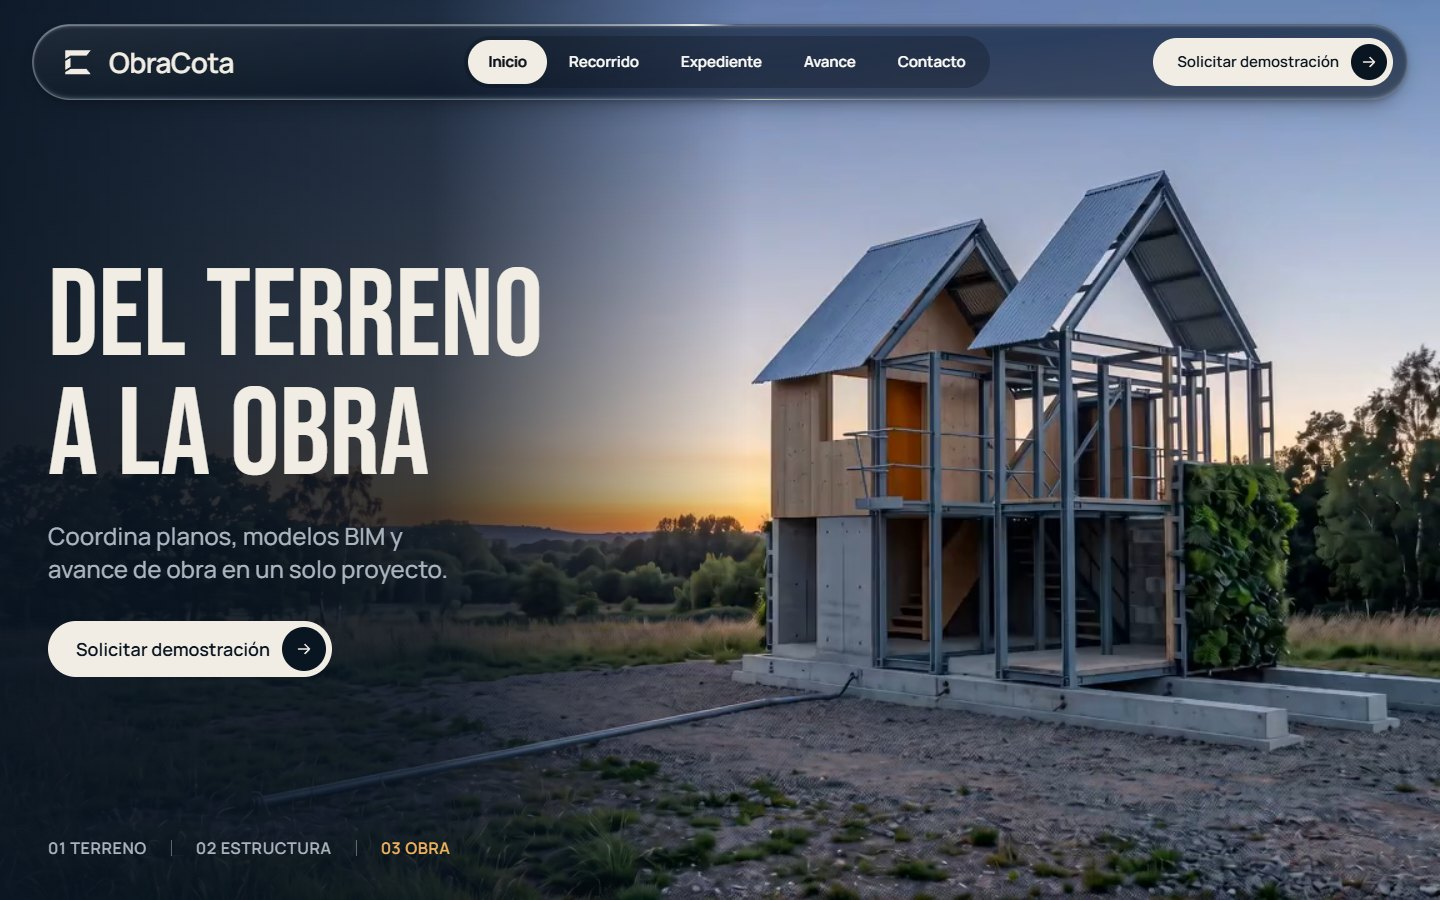
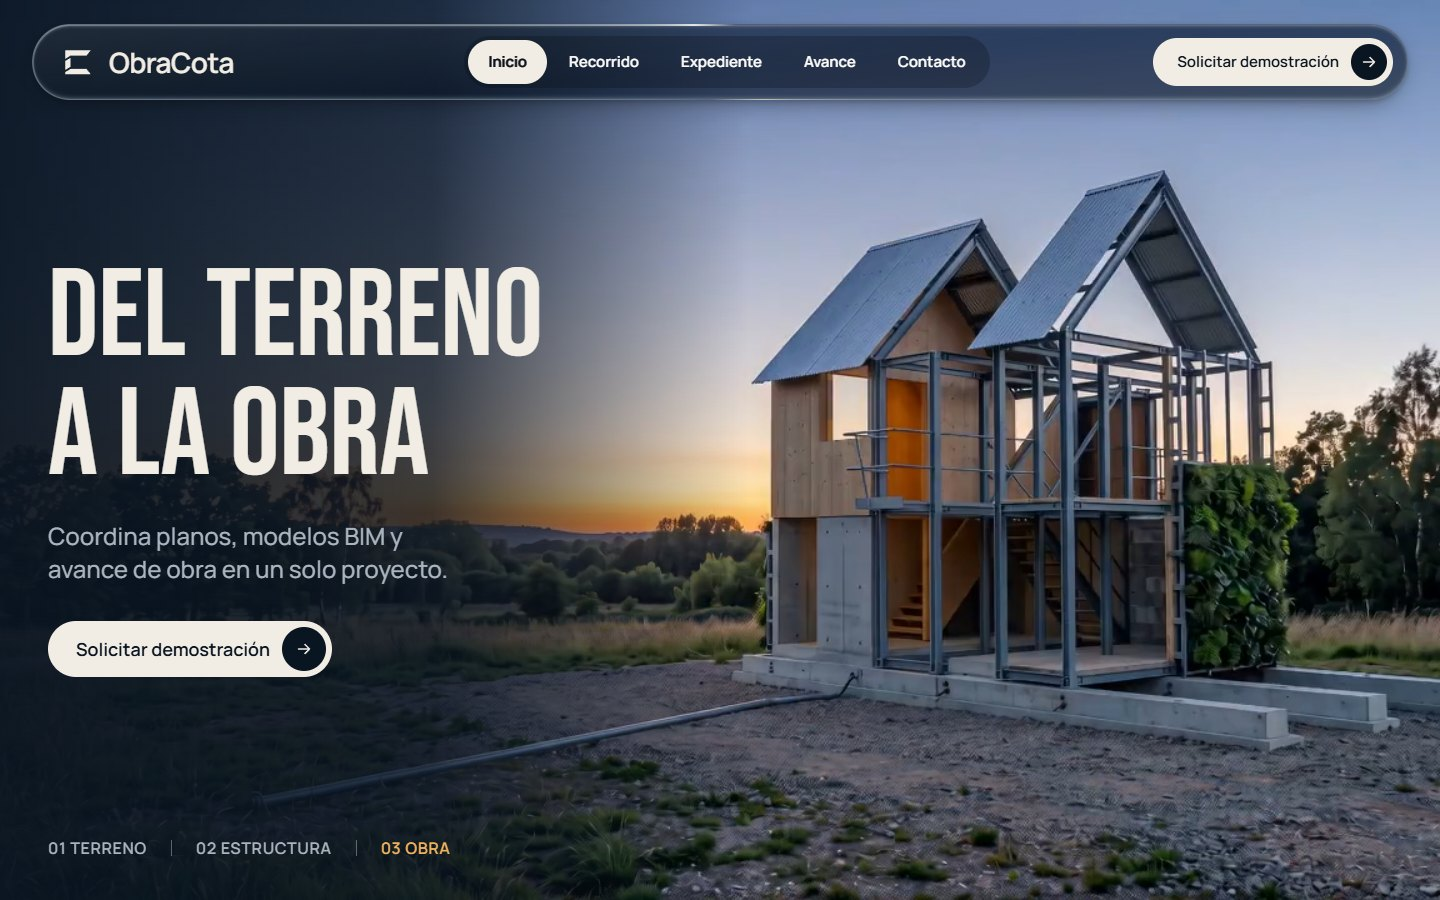
docs: :memo: UpdateReadmeForContactClosing

diff --git a/landing/README.md b/landing/README.md
@@ -196,13 +196,12 @@ atrás sin tirones), sin audio, en 1280 y 960 px de ancho. Los cuatro archivos p
 
 - Modelo 3D e hitos: ReStage, RWTH Aachen, CC BY 4.0 (ver arriba).
 - Portada y avance: recreaciones con IA (Higgsfield) a partir del modelo de ReStage.
-- Fotografía del contacto: imagen generada con Google Flow para el caso ficticio Pabellón
-  Arrayán. Pendiente de sustituir por el mismo edificio.
+- Contacto: la foto ocupa toda la sección y el formulario flota en una tarjeta. El fondo pasa del terreno a una casa totalmente terminada con un barrido, y un recuadro mantiene el inicio a la vista. Ambas imágenes están generadas con IA (Higgsfield); el acabado final es ilustrativo y la página lo dice.
 
 ## Pendientes conocidos
 
 - Conectar el formulario a un canal de contacto real y redactar la política de datos.
-- Rehacer la foto de contacto y la imagen para redes (`og.jpg`) con el mismo edificio.
+- Rehacer la imagen para redes (`og.jpg`) con el mismo edificio.
 - Probar el vídeo ligado al scroll en un iPhone real.
 - En el servidor de desarrollo, las pruebas que entran directo a una sección pueden fallar por hacer clic antes de la hidratación; contra la compilación de producción pasan.
 - Definir el dominio (`NEXT_PUBLIC_SITE_URL`) antes de publicar.
